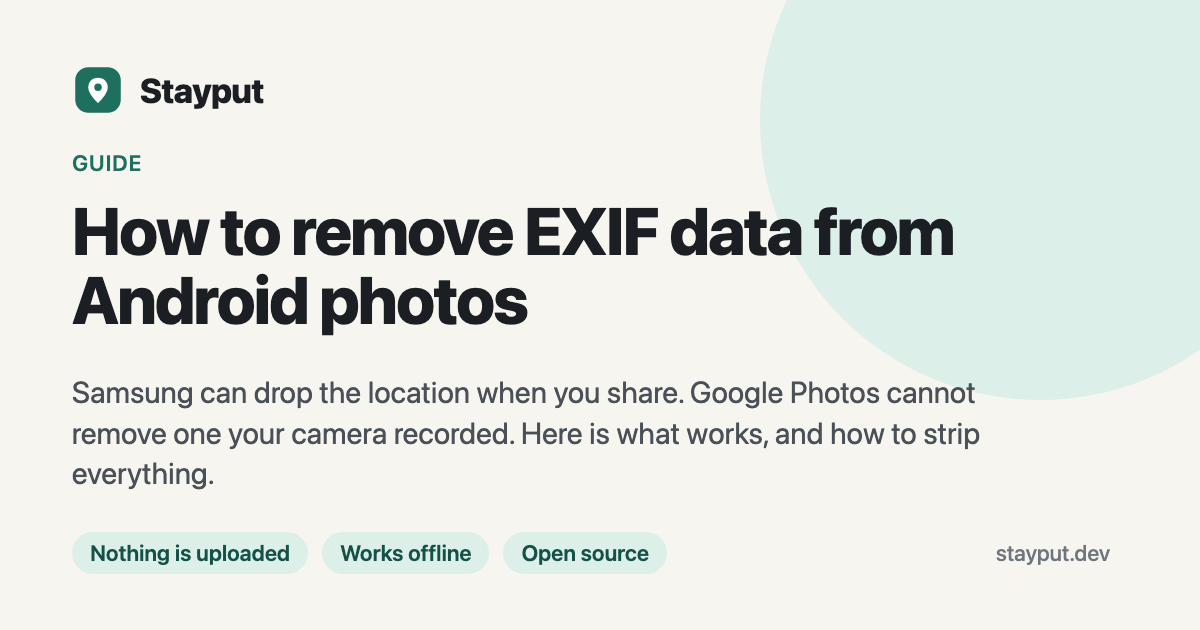
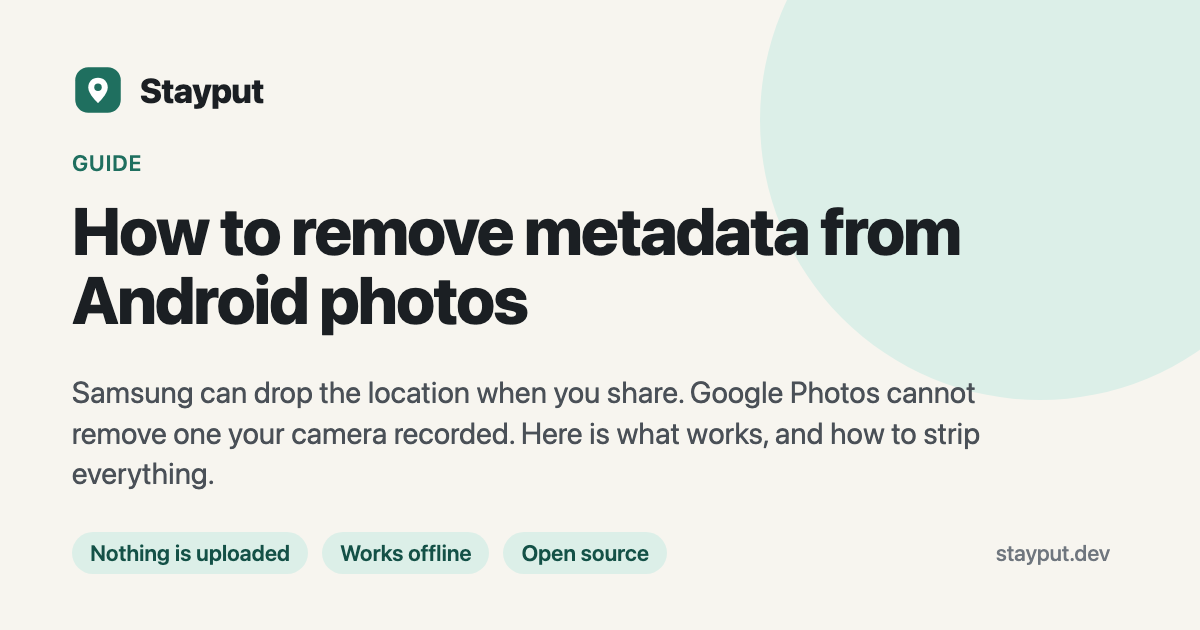
Add a sixth guide on platforms and EXIF; use "metadata" in titles
New guide: does-discord-reddit-or-instagram-remove-exif-data. No platform
documents what it removes from photo uploads, and the published
comparisons we checked did not describe a test method, so the page makes
no per-app claims. It says so (dated October 2026), explains why the
answer varies, shows how to test a received copy, and recommends
stripping locally.

The four device guides now say "metadata" in their titles, headings and
descriptions, and carry the matching keywords (remove metadata from photo
iphone / android / mac / windows, remove location from photo iphone).

Keyword data used alongside Google autocomplete: growth team's keyword
data (US monthly volume, Oct 2026). Largest demand: "remove metadata from
photo" 2,900, "remove exif data" 1,300, "how to remove metadata from
photo" 880, "remove location from photo iphone" 320. Device variants are
small (iphone 70-90, android 30-90, mac 50, windows 30). "does discord
remove exif data" 140, other platforms 30-50 each.

Picks stand at six. iPhone, Android and Mac fit the demand. Windows is the
smallest but is a distinct intent with an official Microsoft procedure and
a low writing cost, so it stays. Pages on "how to remove location from
photo" are not added: the existing location landing pages already cover
that intent.

Changed region(s): [[0.4317, 0.3317, 0.8017, 0.4222]]

diff --git a/src/data/guides.ts b/src/data/guides.ts
@@ -4086,11 +4086,11 @@ export const guides: Guide[] = [
   },
   {
     slug: "remove-exif-data-from-photos-on-windows",
-    title: "How to Remove EXIF Data From a Photo on Windows 10 and 11",
-    description: "Remove EXIF, GPS and camera metadata from photos on Windows: the File Explorer option, what it leaves alone, and a lossless way to clean a whole folder in your browser.",
-    heading: "How to remove EXIF data from a photo on Windows",
+    title: "How to Remove Metadata (EXIF) From a Photo on Windows 10 and 11",
+    description: "Remove metadata, EXIF and GPS data from photos on Windows: the File Explorer option, what it leaves alone, and a lossless way to clean a whole folder in your browser.",
+    heading: "How to remove metadata from a photo on Windows",
     dek: "File Explorer can strip some metadata from a photo. Here is how, what it does not promise, and how to clean a whole folder without re-saving the pictures.",
-    keywords: ["remove exif data windows", "remove exif data windows 11", "remove metadata from photo windows 10", "strip exif windows", "delete exif data from image windows"],
+    keywords: ["remove metadata from photo windows","remove exif data windows", "remove exif data windows 11", "remove metadata from photo windows 10", "strip exif windows", "delete exif data from image windows"],
     updated: "2026-10-03",
     tools: ["strip-exif", "exif-viewer", "remove-location-from-photos"],
     sections: [
@@ -4121,11 +4121,11 @@ export const guides: Guide[] = [
   },
   {
     slug: "remove-exif-data-from-photos-on-mac",
-    title: "How to Remove EXIF Data From Photos on a Mac (Photos, Preview, Terminal)",
+    title: "How to Remove Metadata and EXIF Data From Photos on a Mac",
     description: "What Photos, Preview and the Terminal can do about photo metadata on a Mac, and a lossless way to strip EXIF and GPS from JPG, PNG and WebP in your browser.",
-    heading: "How to remove EXIF data from photos on a Mac",
+    heading: "How to remove metadata from photos on a Mac",
     dek: "Photos can hide a location, Preview can show one, and neither is documented to clean a file. Here is what each does and how to strip a photo for sure.",
-    keywords: ["remove exif data mac", "remove metadata from photo mac", "strip exif macos", "mac remove gps from photo", "remove exif data mac terminal"],
+    keywords: ["remove metadata from photo mac", "remove exif data mac", "strip exif macos", "mac remove gps from photo", "remove exif data mac terminal"],
     updated: "2026-10-03",
     tools: ["strip-exif", "exif-viewer", "remove-location-from-photos"],
     sections: [
@@ -4159,11 +4159,11 @@ export const guides: Guide[] = [
   },
   {
     slug: "remove-exif-data-from-iphone-photos",
-    title: "How to Remove EXIF Data and Location From iPhone Photos",
-    description: "Remove location and other EXIF data from iPhone photos: the Share sheet and Photos options, what they cover, and how to strip everything before you post.",
-    heading: "How to remove EXIF data from iPhone photos",
+    title: "How to Remove Metadata and EXIF Data From iPhone Photos",
+    description: "Remove location, metadata and other EXIF data from iPhone photos: the Share sheet and Photos options, what they cover, and how to strip everything before you post.",
+    heading: "How to remove metadata from iPhone photos",
     dek: "Apple's built-in options handle location. For the date, device and everything else, here is how to strip a photo before you post it.",
-    keywords: ["remove exif data iphone", "remove metadata from iphone photo", "strip metadata iphone", "remove location from iphone photo before sharing", "delete exif data iphone photo"],
+    keywords: ["remove metadata from photo iphone", "remove location from photo iphone", "remove exif data iphone", "strip metadata iphone", "remove location from iphone photo before sharing", "delete exif data iphone photo"],
     updated: "2026-10-03",
     tools: ["strip-exif", "exif-viewer", "remove-location-from-photos"],
     sections: [
@@ -4197,9 +4197,9 @@ export const guides: Guide[] = [
   },
   {
     slug: "remove-exif-data-from-android-photos",
-    title: "How to Remove EXIF Data and Location From Android Photos (Samsung and Pixel)",
-    description: "Remove location and EXIF data from Android photos: Samsung's share option, why Google Photos cannot remove a camera-recorded location, and how to strip it all.",
-    heading: "How to remove EXIF data from Android photos",
+    title: "How to Remove Metadata and EXIF Data From Android Photos",
+    description: "Remove location, metadata and EXIF data from Android photos: Samsung's share option, why Google Photos cannot remove a camera-recorded location, and how to strip it all.",
+    heading: "How to remove metadata from Android photos",
     dek: "Samsung can drop the location when you share. Google Photos cannot remove one your camera recorded. Here is what works, and how to strip everything.",
     keywords: ["remove exif data android", "remove metadata from photo android", "remove location from photo samsung", "strip metadata android", "remove gps from photo android pixel"],
     updated: "2026-10-03",
@@ -4277,6 +4277,49 @@ export const guides: Guide[] = [
       { q: "Is turning off geotagging the same as turning off Location Services?", a: "No. On an iPhone you can set only the Camera to Never and leave Location Services on for maps. On Pixel and Samsung the setting lives in the camera app." },
       { q: "Do other camera apps follow this setting?", a: "The settings above are for the phone's own camera. Other camera apps have their own options, so check a photo from them with the [EXIF viewer](/tools/exif-viewer)." },
       { q: "Will the date and phone model still be in the photo?", a: "Yes. These settings control location. The date, device and camera settings stay until you remove them with the [EXIF remover](/tools/strip-exif)." },
+    ],
+  },
+  {
+    slug: "does-discord-reddit-or-instagram-remove-exif-data",
+    title: "Does Discord, Reddit or Instagram Remove EXIF Data? What's Documented",
+    description: "Do social apps remove the metadata and GPS location from photos you post? What the platforms document as of October 2026, why the answer varies, and how to be sure.",
+    heading: "Do Discord, Reddit and Instagram remove EXIF data from photos?",
+    dek: "Nobody documents it well, and the answer can differ by file type and how you send the photo. Here is what we could verify, how to test it, and the safe way.",
+    keywords: ["does discord remove exif data", "does reddit remove exif data", "does instagram remove exif data", "does whatsapp remove metadata from photos", "do social media sites remove metadata"],
+    updated: "2026-10-03",
+    tools: ["strip-exif", "exif-viewer", "remove-location-from-photos"],
+    sections: [
+      {
+        h: "The short answer",
+        p: ["It depends, and the platforms mostly do not say. This page is dated October 2026, and it deliberately does not give a yes or no for each app, because we could not back one with an official source. What is always true: a photo you clean yourself before posting carries no location, whatever the app does afterwards."],
+      },
+      {
+        h: "What we could and could not verify (as of October 2026)",
+        p: ["We looked for each platform's own help or support pages on whether photo uploads have their metadata removed, and did not find a page that states it for Discord, Reddit, Instagram or WhatsApp. Some of those support sites could not be read by our tools, so an official statement may exist that we missed.", "Plenty of published comparison tables say which apps strip metadata. The ones we checked in detail came from makers of metadata tools and did not describe how they tested: no dates, no sample files, no way to check that the result still holds. We do not repeat their per-app verdicts here. If you rely on a verdict, ask for the method behind it."],
+      },
+      {
+        h: "Why there is no simple answer",
+        p: ["A few things make any blanket claim unreliable, and they are properties of how services work rather than claims about a particular app:"],
+        list: ["**The service may re-encode the photo on upload.** Re-saving an image usually drops its metadata as a side effect. If the service instead passes the original file through, the metadata travels with it.", "**Photo and file modes can differ.** Apps that let you send a picture either as a photo or as a file or document may treat the two differently.", "**File type can matter.** A service that processes JPGs one way may handle PNG, WebP or HEIC files another way.", "**What other people download may differ from what the service keeps.** Removing metadata from the copy shown to others says nothing about the original the service stored.", "**It can change without notice.** A result that held last year may not hold after an app update."],
+      },
+      {
+        h: "Test it yourself in a few minutes",
+        p: ["You can check a specific app, file type and send mode on your own device. Take a photo of something unremarkable with location turned on (not your home), and confirm on the [EXIF viewer](/tools/exif-viewer) that it shows GPS coordinates. Send it to yourself or a friend in a private chat or message, in the mode you actually use, then save the copy the other side receives and drop it on the viewer.", "That tells you what that copy contained at that time, for that file type and mode. It does not tell you what the service stores, and it does not cover the public version of a post. It is a good check, but not a guarantee."],
+      },
+      {
+        h: "The dependable way: strip it before you post",
+        p: ["Open the [EXIF remover](/tools/strip-exif), add the photos and check the list of what each one contains, including whether it has GPS coordinates. Click **Remove metadata** and download the cleaned copies, or all of them in one zip. A cleaned copy has nothing for any platform to leak or keep.", "In a JPG it removes the EXIF block (GPS position, date and time, camera and phone model, settings and the embedded thumbnail), XMP, IPTC, comments and the other application metadata segments. In PNG and WebP it removes the EXIF, text and XMP chunks. The colour profile is kept by default because it holds no personal data and removing it can shift colours.", "The cleaned copy is not re-compressed: the picture data is copied byte for byte and only the metadata blocks are cut out. One exception: with \"Apply orientation to sideways photos\" ticked (the default), a photo stored sideways with a rotation tag is re-encoded so it still displays upright, and its colour profile is dropped in that case. Untick the box for a strictly lossless result.", "It reads JPG, PNG and WebP. HEIC photos are not supported by the remover, so convert those first with the [HEIC to JPG converter](/tools/heic-to-jpg), which leaves metadata out unless you tick the box to keep it. Everything happens inside your browser tab, so the photos never leave your device."],
+      },
+      {
+        h: "Related guides",
+        p: ["To see what a photo contains first, read [how to view photo metadata](/guides/how-to-view-photo-metadata) and [what EXIF data is](/guides/what-is-exif-data). For removing location on each device, see the [location removal guide](/guides/remove-location-data-from-photos), or [turn off location tags](/guides/turn-off-location-tags-on-photos) so new photos do not record it."],
+      },
+    ],
+    faq: [
+      { q: "Does Discord remove EXIF data?", a: "We found no Discord help page that says, as of October 2026, and behaviour may differ by file type. Clean the photo with the [EXIF remover](/tools/strip-exif) before you send it, or test the copy you receive with the [EXIF viewer](/tools/exif-viewer)." },
+      { q: "Does Reddit remove EXIF data from photos?", a: "We found no Reddit help page that states it, as of October 2026. Linking to an image hosted elsewhere is a separate case, because the file is hosted by someone else. Strip the photo first to be sure." },
+      { q: "Does Instagram remove metadata from photos?", a: "We found no Instagram help page that states what it removes, as of October 2026. The safe route is to remove the metadata yourself before uploading." },
+      { q: "Is sending a photo as a file different from sending it as a photo?", a: "It can be. Apps with both modes may handle them differently, and we found no official statement either way. Remove the metadata yourself, then the mode does not matter for location." },
     ],
   },
 ];
